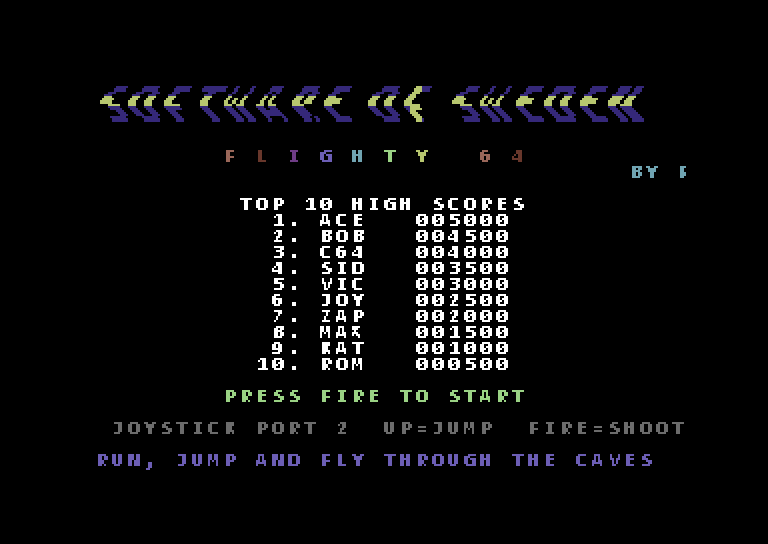
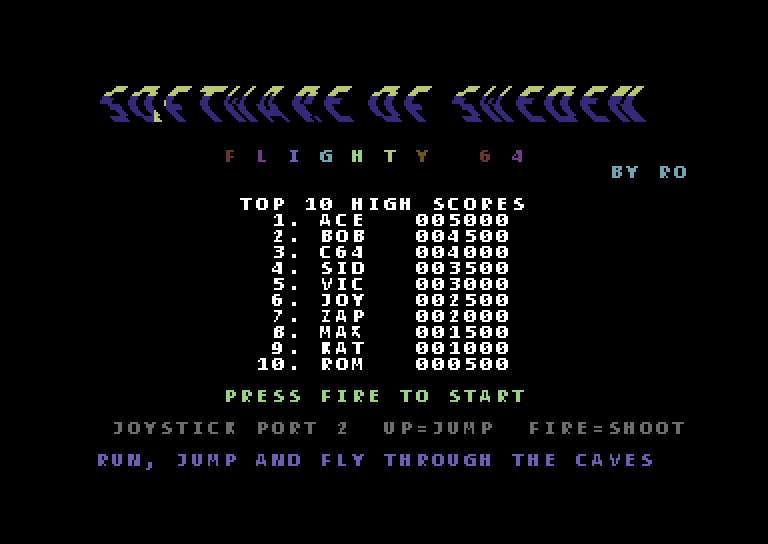
Logon: korset studsar som en basketboll mot golv och väggar
Vågräta gula balken (rasterlinjen) följde en halv sinus och såg ut att
bara gunga upp och ner. Nu rör sig korset som en boll sedd från sidan.

- Vågräta balken: fyra parabelstudsar (konstant tyngdkraft) med höjden
  19, 13, 8 och 4 rader och sedan en ny knuff, som när man dribblar.
  Tiden i luften växer med roten ur höjden. I nedslaget trycks balken
  ihop (3, sedan 4 rader), nära golvet sträcks den ut (6 rader).
  Tabellerna bounceTop/bounceH (139 bildrutor) räknas ut i make_gfx.py.
- Lodräta balken (sprite 0): jämn fart, 1 px per bildruta, och tvär
  vändning vid textens kanter som mot en vägg. Vid väggen står den 3
  bildrutor ihoptryckt (ny sprite SPR_FLAGBAR4, 4 px bred) med kanten
  kvar mot väggen.
- smoke_test kontrollerar golvstudsar, ihoptryckning, väggstudsar och
  att balken inte hoppar. docs/logo.gif visar 300 bildrutor (en väggstuds).

Kontroll i VICE: 150 skärmbilder utan fel i logon, rulltexten och
raderna runt omkring.

diff --git a/tools/make_gfx.py b/tools/make_gfx.py
@@ -33,8 +33,13 @@ FIRST_CHAR = 64               # egna tecken: 64 och uppåt
 LOGO_WIDTH = 272              # "SOFTWARE OF SWEDEN": 16 bokstäver x 16 px + 2 mellanslag x 8 px
 LOGO_WAVE = 7                 # bokstävernas våg: 0-7 pixlar (finscroll per rasterlinje)
 FLAG_BAR_W = 6
-FLAG_HALF = (LOGO_WIDTH - FLAG_BAR_W) // 2    # lodräta balken: ± så här långt från mitten
-BOUNCE = 19                   # 24 rader hög logo - 5 rader balk
+LOGO_ROWS = 24                # logons höjd i rasterlinjer
+FLAG_BAR_H = 5                # vågräta balkens normala tjocklek
+FLOOR = LOGO_ROWS - FLAG_BAR_H  # balkens översta rad när den ligger på golvet (19)
+# Studsarna: höjd i rader över golvet. Bollen tappar fart för varje studs
+# och får sedan en ny knuff (som när man dribblar en basketboll).
+BOUNCES = [19, 13, 8, 4]
+BOUNCE_T19 = 46               # bildrutor i luften för den högsta studsen
 
 SPR_MAP = {'.': 0, 'w': 1, 'b': 2, 's': 3}
 CHR_MAP = {'.': 0, 'r': 1, 'd': 2, 'g': 3}
@@ -312,6 +317,8 @@ SPRITES = [
 # Flaggans lodräta gula balk på startskärmen. Hires-sprite: 'sss' = 6 pixlar.
 # Bara 12 rader data; med höjdförstoring blir den exakt 24 rader hög.
 SPRITES.append(("FLAGBAR", "top", ["sss........."] * 12))
+# Samma balk ihoptryckt mot en vägg: 4 pixlar bred
+SPRITES.append(("FLAGBAR4", "top", ["ss.........."] * 12))
 
 # Spegelvända gubbar (springer åt vänster)
 _by_name = {n: (a, r) for n, a, r in SPRITES}
@@ -464,6 +471,28 @@ def fmt_bytes(vals, per_line=12):
     return lines
 
 
+def bounce_frames():
+    """Flaggans vågräta balk bildruta för bildruta: (översta rad, tjocklek)."""
+    tops, heights = [], []
+    for h in BOUNCES:
+        t_air = int(round(BOUNCE_T19 * math.sqrt(h / 19.0)))
+        # golvkontakt: ihoptryckt, sedan på väg tillbaka
+        tops += [LOGO_ROWS - 3, LOGO_ROWS - 4]
+        heights += [3, 4]
+        for t in range(1, t_air):
+            y = h * (1 - (2.0 * t / t_air - 1) ** 2)       # parabel, 0 vid golvet
+            top = FLOOR - int(round(y))
+            if y < 0.3 * h and top >= 1:                    # snabbt nära golvet: utsträckt
+                tops.append(top - 1)
+                heights.append(FLAG_BAR_H + 1)
+            else:
+                tops.append(top)
+                heights.append(FLAG_BAR_H)
+    assert len(tops) < 256
+    assert all(0 <= t and t + hh <= LOGO_ROWS for t, hh in zip(tops, heights))
+    return tops, heights
+
+
 def main():
     padded = {}
     for name, align, rows in SPRITES:
@@ -482,6 +511,7 @@ def main():
         const.append(".const CH_%-8s = %d" % (name, FIRST_CHAR + i))
     const.append("")
     const.append(".const GFX_CHARS_LEN   = %d" % (len(CHARS) * 8))
+    const.append(".const BOUNCE_LEN      = %d   // bildrutor i flaggans studsserie" % len(bounce_frames()[0]))
     const.append(".const GFX_SPRITES_LEN = %d" % (len(SPRITES) * 64))
     const.append("")
     const.append("// Kollisionsboxar i spritepixlar (inklusive), union av alla ramar")
@@ -538,16 +568,18 @@ def main():
     data.append("waveTab:")
     data += fmt_bytes([int(round(LOGO_WAVE / 2 * (1 + math.sin(2 * math.pi * i / 64))))
                        for i in range(64)], 16)
-    data.append("// Flaggans lodräta balk: avstånd 0-%d px från mitten, en kvarts sinusperiod." % FLAG_HALF)
-    data.append("// Koden speglar den till en hel period (mjuka vändningar).")
-    data.append("flagXTab:")
-    data += fmt_bytes([int(round(FLAG_HALF * math.sin(math.pi / 2 * (i + 0.5) / 256)))
-                       for i in range(256)], 16)
-    data.append("// Flaggans vågräta balk: översta raden 0-%d. Halv sinus (|sin|):" % BOUNCE)
-    data.append("// skarp vändning i nederkant, mjuk i överkant")
-    data.append("bounceTab:")
-    data += fmt_bytes([int(round(BOUNCE * (1 - math.sin(math.pi * i / 256))))
-                       for i in range(256)], 16)
+    # Flaggans vågräta balk: en serie parabelstudsar (konstant tyngdkraft).
+    # Per bildruta: översta raden och tjockleken. I golvkontakten trycks
+    # balken ihop (3 och 4 rader), nära golvet där farten är hög sträcks den
+    # ut till 6 rader. Tiden i luften växer med roten ur höjden.
+    tops, heights = bounce_frames()
+    data.append("// Flaggans vågräta balk: %d bildrutor, %d studsar (höjd %s rader)." % (
+        len(tops), len(BOUNCES), ", ".join(map(str, BOUNCES))))
+    data.append("// bounceTop = översta raden 0-23, bounceH = tjocklek i rader")
+    data.append("bounceTop:")
+    data += fmt_bytes(tops, 16)
+    data.append("bounceH:")
+    data += fmt_bytes(heights, 16)
     data.append("")
 
     with open(os.path.join(SRC, "gfx_const.asm"), "w", encoding="utf-8") as f:

diff --git a/tools/smoke_test.py b/tools/smoke_test.py
@@ -90,10 +90,13 @@ def main():
         c.render(os.path.join(shots, 'menu.png'))
 
     # startskärmens logo: blå/gul flagga i logons rasterlinjer, svart utanför,
-    # bokstäverna böljar (egen finscroll per rasterlinje), lodräta balken
-    # glider långsamt (ett varv = 1024 bildrutor)
+    # bokstäverna böljar (egen finscroll per rasterlinje). Korset studsar:
+    # vågräta balken mellan topp och golv (ihoptryckt vid golvet), lodräta
+    # balken med jämn fart mellan väggarna (ihoptryckt vid väggen)
     wave = c.ram[addr(c, 'waveTab'):addr(c, 'waveTab') + 64]
-    bars = set()
+    sym_spr = addr(c, 'SPR_FLAGBAR4')
+    bars = []
+    sprite_ptr = []
     row6 = []
     sprite_x = []
     gif = []
@@ -103,8 +106,9 @@ def main():
         assert d021[:4] == [0] * 4 and d021[-4:] == [0] * 4, "färgbyte utanför logon: %s" % d021
         inside = d021[4:28]
         assert set(inside) == {6, 7}, "logon ska ha blå och gul: %s" % inside
-        assert inside.count(7) == 5, "vågräta balken ska vara 5 rader"
-        bars.add(inside.index(7))
+        top, n = inside.index(7), inside.count(7)
+        assert 3 <= n <= 6 and inside[top:top + n] == [7] * n, "vågräta balken ska vara 3-6 rader i ett stycke: %s" % inside
+        bars.append((top, n))
         d016 = [c.line_regs[line][1] for line in range(59, 83)]
         assert all(v & 0xf8 == 0 for v in d016), "logon ska vara 38 kolumner: %s" % d016
         xs = [v & 7 for v in d016]
@@ -116,19 +120,33 @@ def main():
         assert len(set(d016[2:10])) == 1 and d016[2] < 8, "rulltextens $d016 ska vara 38 kolumner + finscroll: %s" % d016
         row6.append(bytes(c.ram[addr(c, 'SCREEN_A') + 240: addr(c, 'SCREEN_A') + 280]))
         sprite_x.append(c.io[0] | ((c.io[0x10] & 1) << 8))
-        if shots and f < 128 and f % 2 == 0:
+        sprite_ptr.append(c.ram[addr(c, 'SCREEN_A') + 0x3f8])
+        if shots and f < 300 and f % 2 == 0:
             from PIL import Image
             c.render(os.path.join(shots, '.frame.png'), scale=1)
             gif.append(Image.open(os.path.join(shots, '.frame.png')).crop((32, 24, 352, 104)).convert('P'))
     assert c.io[0x1b] & 1 and c.io[0x17] & 1, "flaggbalken ska vara höjdförstorad och bakom texten"
     assert len(set(row6)) > 20, "rulltexten rör sig inte"
     assert any(b'\x02\x19\x20\x12\x0f\x0e' in r for r in row6), "krediten syns inte i rulltexten"
-    assert min(bars) == 0 and max(bars) == 19, "balken studsar inte hela vägen: %s" % sorted(bars)
-    steps = [abs(a - b) for a, b in zip(sprite_x, sprite_x[1:])]
-    assert max(steps) <= 1, "lodräta balken ska gå långsamt (max %d px/bildruta)" % max(steps)
+    assert min(t for t, _ in bars) == 0, "balken studsar inte ända upp"
+    floor = [(t, n) for t, n in bars if t + n == 24]
+    assert any(n == 3 for _, n in floor), "balken trycks inte ihop mot golvet"
+    assert sum(1 for t, n in bars if (t, n) == (21, 3)) >= 7, "för få studsar mot golvet"
+    # ihoptryckt är balken 4 px bred, annars 6. Kanten mot väggen ligger
+    # kvar, så minst en av kanterna flyttar högst 1 px per bildruta.
+    right = [x + (4 if p == sym_spr else 6) for x, p in zip(sprite_x, sprite_ptr)]
+    for i in range(len(sprite_x) - 1):
+        assert min(abs(sprite_x[i + 1] - sprite_x[i]), abs(right[i + 1] - right[i])) <= 1,             "lodräta balken hoppar vid bildruta %d" % i
+    steps = [b - a for a, b in zip(sprite_x, sprite_x[1:])]
     assert max(sprite_x) - min(sprite_x) > 260, "lodräta balken rör sig inte över hela texten"
-    print("logo: vågrät balk rad %d-%d, lodrät balk x %d-%d (max %d px/bildruta)" % (
-        min(bars), max(bars), min(sprite_x), max(sprite_x), max(steps)))
+    # vändningar bara vid väggarna, och där är balken ihoptryckt
+    moving = [d for d in steps if d]
+    turns = [i for i, (a, b) in enumerate(zip(moving, moving[1:])) if (a > 0) != (b > 0)]
+    assert len(turns) >= 3, "lodräta balken studsar inte mellan väggarna"
+    squashed = {x for x, p in zip(sprite_x, sprite_ptr) if p == sym_spr}
+    assert squashed and all(x in (min(sprite_x), max(sprite_x)) for x in squashed),         "lodräta balken ska bara tryckas ihop vid väggarna: %s" % sorted(squashed)
+    print("logo: vågrät balk rad 0-23 (%d golvstudsar), lodrät balk x %d-%d, %d väggstudsar" % (
+        sum(1 for b in bars if b == (21, 3)), min(sprite_x), max(sprite_x), len(turns)))
     if shots:
         os.remove(os.path.join(shots, '.frame.png'))
         gif = [im.resize((640, 160)) for im in gif]

diff --git a/README.md b/README.md
@@ -32,9 +32,11 @@ Använd en joystick i **port 2**.
 Överst står **SOFTWARE OF SWEDEN** i stora bokstäver. Bokstäverna böljar i
 sidled: varje rasterlinje är förskjuten lite olika, så textens vänsterkant
 bildar en sinuskurva som vandrar uppåt. Genom bokstäverna syns en svensk
-flagga: det gula korsets vågräta balk studsar upp och ner som en boll
-(skarp vändning i nederkant, mjuk i överkant), och den lodräta balken glider
-långsamt höger–vänster (ett varv tar ca 20 sekunder).
+flagga vars gula kors rör sig som en studsande basketboll sedd från sidan.
+Den vågräta balken faller och studsar mot golvet i allt lägre studsar,
+trycks ihop i varje nedslag och får sedan en ny knuff, som när man
+dribblar. Den lodräta balken går med jämn fart i sidled och studsar
+tvärt mot textens kanter, som mot en vägg, och trycks ihop där.
 
 Under spelets titel rullar en text från höger till vänster. Den börjar med
 upphovsmännen, **BY RON, WHITE KNIGHT, BEAST & WOLK**, och fortsätter med en hälsning
@@ -289,19 +291,23 @@ avbrottsvektorer på `$fffa-$ffff`.
   badlinen förra linjens färg), och värdena för linjen efter badlinen
   skrivs i badlinens högerkant, direkt efter stoppet.
 * **Den vågräta gula balken:** vilka linjer som är gula läses ur
-  `bounceTab`, som är en halv sinus (1 − |sin|): skarp vändning i
-  nederkant, mjuk i överkant.
+  `bounceTop` (översta raden) och `bounceH` (tjockleken), en bildruta i
+  taget. Tabellerna räknas ut i `tools/make_gfx.py`: fyra parabelstudsar
+  (konstant tyngdkraft) med höjden 19, 13, 8 och 4 rader, där tiden i
+  luften växer med roten ur höjden. I golvkontakten är balken 3 och sedan
+  4 rader tjock (ihoptryckt), nära golvet där farten är hög 6 rader
+  (utsträckt), annars 5. Serien är 139 bildrutor (ca 2,8 s) och börjar om.
 * **Den lodräta gula balken** är sprite 0, höjdförstorad och placerad
   *bakom* förgrunden (`$d01b`). Den syns därför bara genom bokstavshålen.
-  Dess x-position följer en vanlig sinus, så den vänder mjukt i båda
-  ändarna. `flagXTab` är en kvarts period (256 steg, hela pixlar) som koden
-  speglar till ett helt varv på 1024 bildrutor, ca 1 pixel per bildruta.
+  Den går 1 pixel per bildruta och vänder tvärt vid textens kanter. Vid
+  väggen står den still i 3 bildrutor som en smalare sprite (4 pixlar i
+  stället för 6, `SPR_FLAGBAR4`) med kanten kvar mot väggen.
 * **Rulltexten** på rad 6 har egen finscroll: samma rasterloop sätter `$d016`
   för rasterlinje 99-106 och återställer den på linje 107. Båda är badlines,
   så värdena skrivs i högerkanten på linjen före (`d016AtLineEnd`). Raden
   visas i 38-kolumnsläge, så tecknen glider in och ut under ramen.
-* Höjd- och sidledsrörelsen har olika hastighet, så flaggan rör sig som en
-  boll som studsar runt.
+* Tillsammans blir rörelserna en bollbana: bågar mellan golvet och
+  väggarna. Ett varv fram och tillbaka tar ca 11 sekunder.
 
 ### Grottgeneratorn
 
